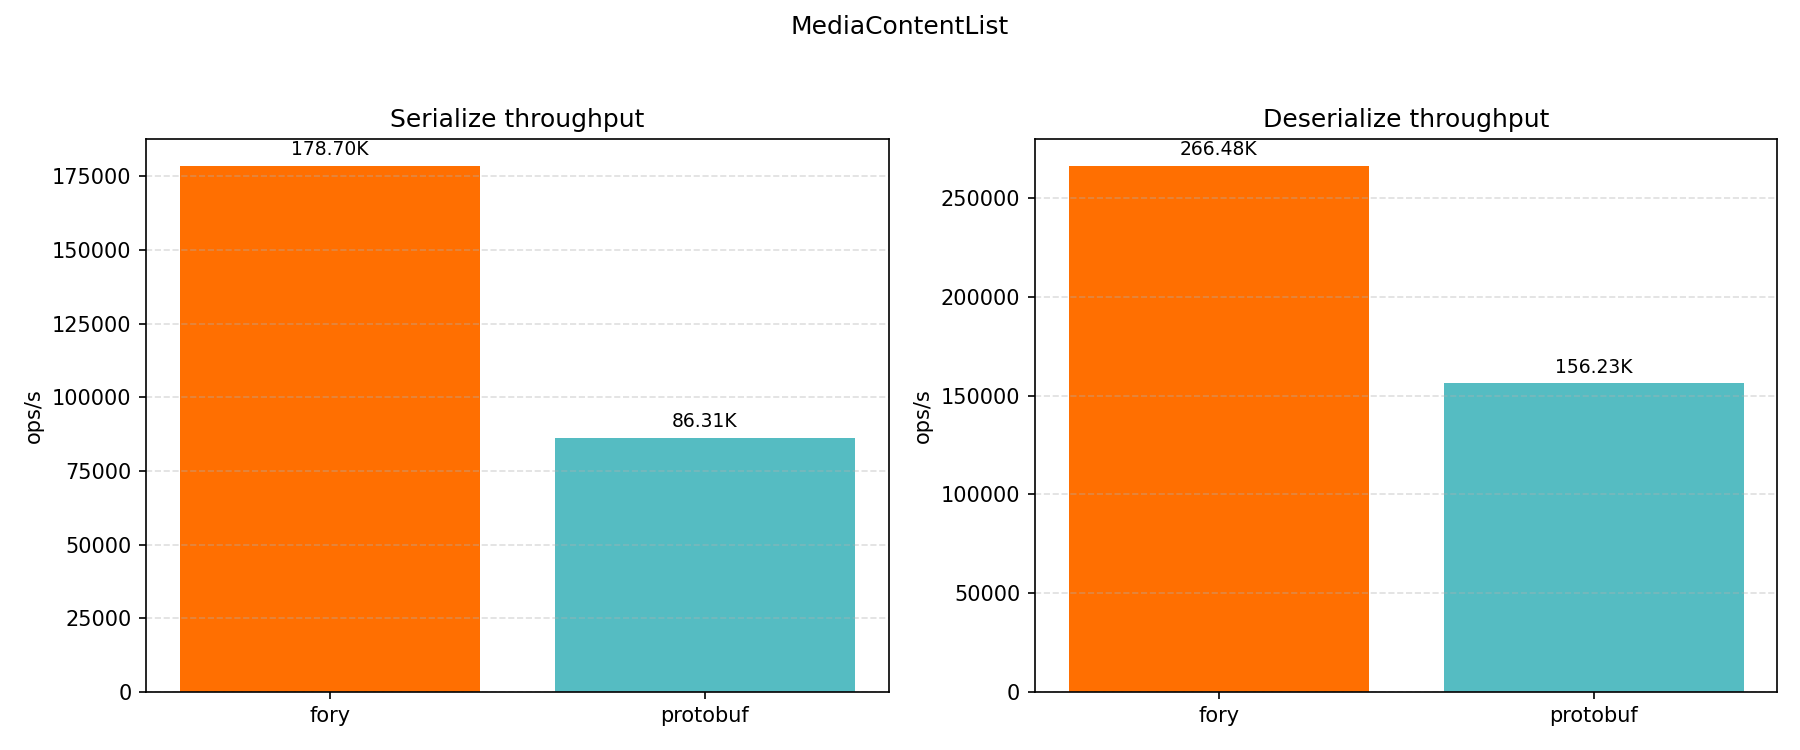
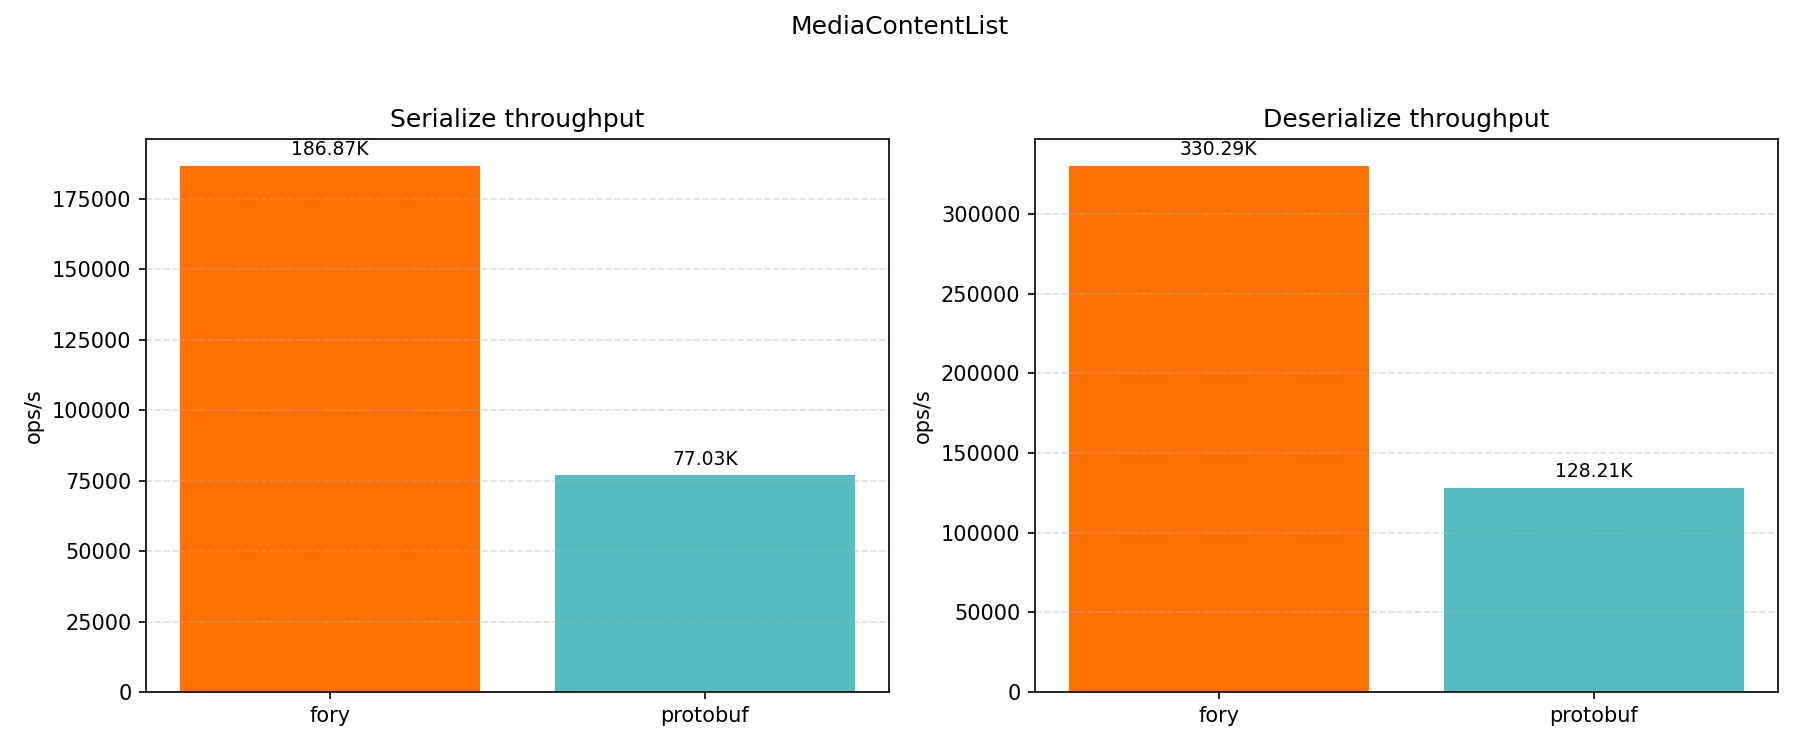
docs(dart): update dart benchmark docs (#3568)
## Why?
We optimized the struct deserialize 

## What does this PR do?
updates the dart benchmark docs

## Related issues

## AI Contribution Checklist
- [ ] Substantial AI assistance was used in this PR: `yes` / `no`
- [ ] If `yes`, I included a completed [AI Contribution
Checklist](https://github.com/apache/fory/blob/main/AI_POLICY.md#9-contributor-checklist-for-ai-assisted-prs)
in this PR description and the required `AI Usage Disclosure`.
- [ ] If `yes`, my PR description includes the required `ai_review`
summary and screenshot evidence of the final clean AI review results
from both fresh reviewers on the current PR diff or current HEAD after
the latest code changes.

## Does this PR introduce any user-facing change?
- [ ] Does this PR introduce any public API change?
- [ ] Does this PR introduce any binary protocol compatibility change?

## Benchmark

---------

diff --git a/docs/benchmarks/dart/README.md b/docs/benchmarks/dart/README.md
@@ -4,36 +4,36 @@ This benchmark compares serialization and deserialization throughput for Apache 
 
 ## Hardware and Runtime Info
 
-| Key                   | Value                                                             |
-| --------------------- | ----------------------------------------------------------------- |
-| Timestamp             | 2026-04-13T06:44:47.141825Z                                       |
-| OS                    | Version 15.7.2 (Build 24G325)                                     |
-| Host                  | MacBook-Pro.local                                                 |
-| CPU Cores (Logical)   | 12                                                                |
-| Memory (GB)           | 48.00                                                             |
-| Dart                  | 3.10.7 (stable) (Tue Dec 23 00:01:57 2025 -0800) on "macos_arm64" |
-| Samples per case      | 5                                                                 |
-| Warmup per case (s)   | 1.0                                                               |
-| Duration per case (s) | 1.5                                                               |
+| Key                   | Value                                                            |
+| --------------------- | ---------------------------------------------------------------- |
+| Timestamp             | 2026-04-13T21:55:28.456625Z                                      |
+| OS                    | Version 26.2 (Build 25C56)                                       |
+| Host                  | Macbook-Air.local                                                |
+| CPU Cores (Logical)   | 8                                                                |
+| Memory (GB)           | 8.00                                                             |
+| Dart                  | 3.10.4 (stable) (Tue Dec 9 00:01:55 2025 -0800) on "macos_arm64" |
+| Samples per case      | 5                                                                |
+| Warmup per case (s)   | 1.0                                                              |
+| Duration per case (s) | 1.5                                                              |
 
 ## Throughput Results
 
 ![Throughput](throughput.png)
 
-| Datatype         | Operation   |  Fory TPS | Protobuf TPS | Fastest          |
-| ---------------- | ----------- | --------: | -----------: | ---------------- |
-| Struct           | Serialize   | 3,875,513 |    2,246,269 | fory (1.73x)     |
-| Struct           | Deserialize | 4,897,372 |    5,085,804 | protobuf (1.04x) |
-| Sample           | Serialize   | 1,686,476 |      579,225 | fory (2.91x)     |
-| Sample           | Deserialize | 1,865,579 |      972,355 | fory (1.92x)     |
-| MediaContent     | Serialize   |   785,533 |      448,202 | fory (1.75x)     |
-| MediaContent     | Deserialize | 1,109,347 |      806,526 | fory (1.38x)     |
-| StructList       | Serialize   | 1,262,676 |      402,451 | fory (3.14x)     |
-| StructList       | Deserialize | 1,444,735 |      765,407 | fory (1.89x)     |
-| SampleList       | Serialize   |   411,793 |       54,598 | fory (7.54x)     |
-| SampleList       | Deserialize |   441,751 |      118,623 | fory (3.72x)     |
-| MediaContentList | Serialize   |   178,695 |       86,306 | fory (2.07x)     |
-| MediaContentList | Deserialize |   266,480 |      156,231 | fory (1.71x)     |
+| Datatype         | Operation   |  Fory TPS | Protobuf TPS | Fastest      |
+| ---------------- | ----------- | --------: | -----------: | ------------ |
+| Struct           | Serialize   | 3,989,432 |    1,884,653 | fory (2.12x) |
+| Struct           | Deserialize | 5,828,197 |    4,199,680 | fory (1.39x) |
+| Sample           | Serialize   | 1,649,722 |      500,167 | fory (3.30x) |
+| Sample           | Deserialize | 2,060,113 |      785,109 | fory (2.62x) |
+| MediaContent     | Serialize   |   800,876 |      391,235 | fory (2.05x) |
+| MediaContent     | Deserialize | 1,315,115 |      683,533 | fory (1.92x) |
+| StructList       | Serialize   | 1,456,396 |      367,506 | fory (3.96x) |
+| StructList       | Deserialize | 1,921,006 |      645,958 | fory (2.97x) |
+| SampleList       | Serialize   |   411,144 |       48,508 | fory (8.48x) |
+| SampleList       | Deserialize |   464,273 |      103,558 | fory (4.48x) |
+| MediaContentList | Serialize   |   186,870 |       77,029 | fory (2.43x) |
+| MediaContentList | Deserialize |   330,293 |      128,215 | fory (2.58x) |
 
 ## Serialized Size (bytes)
 
